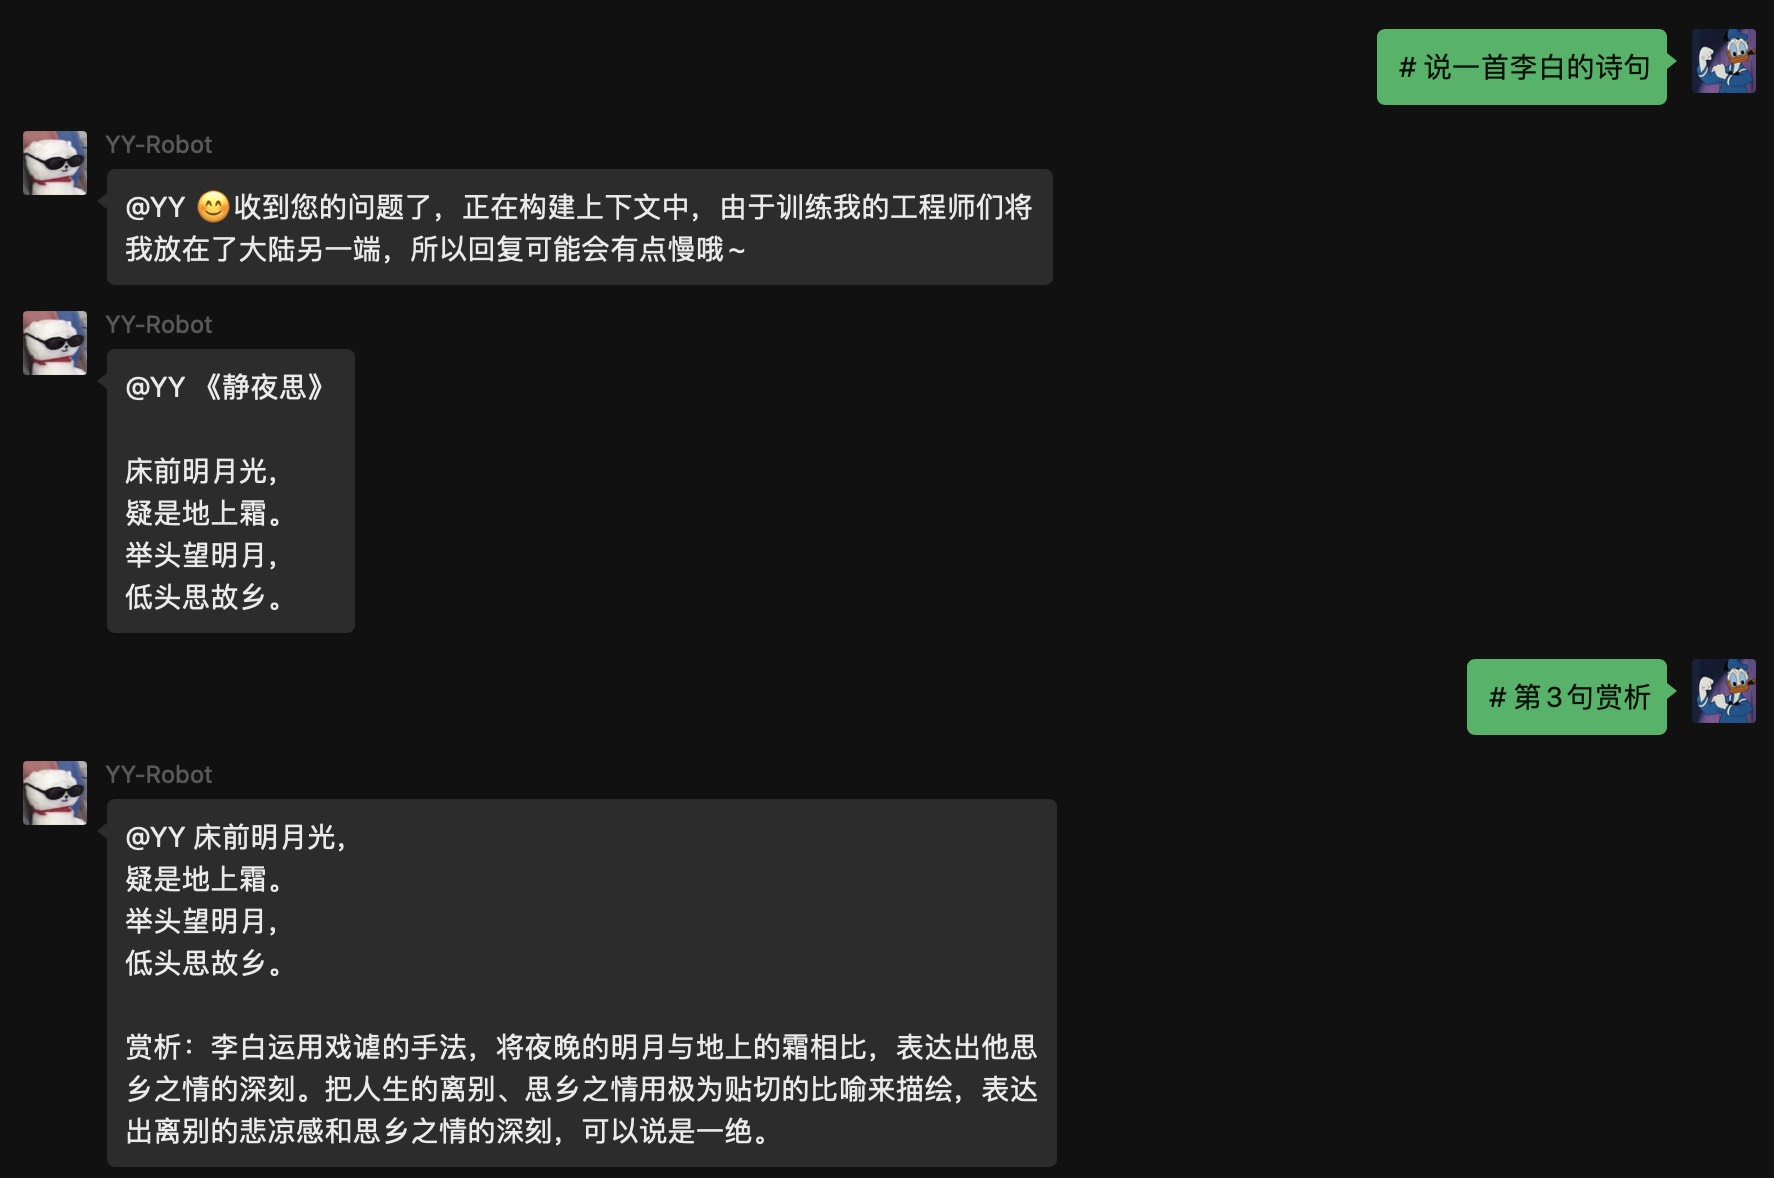
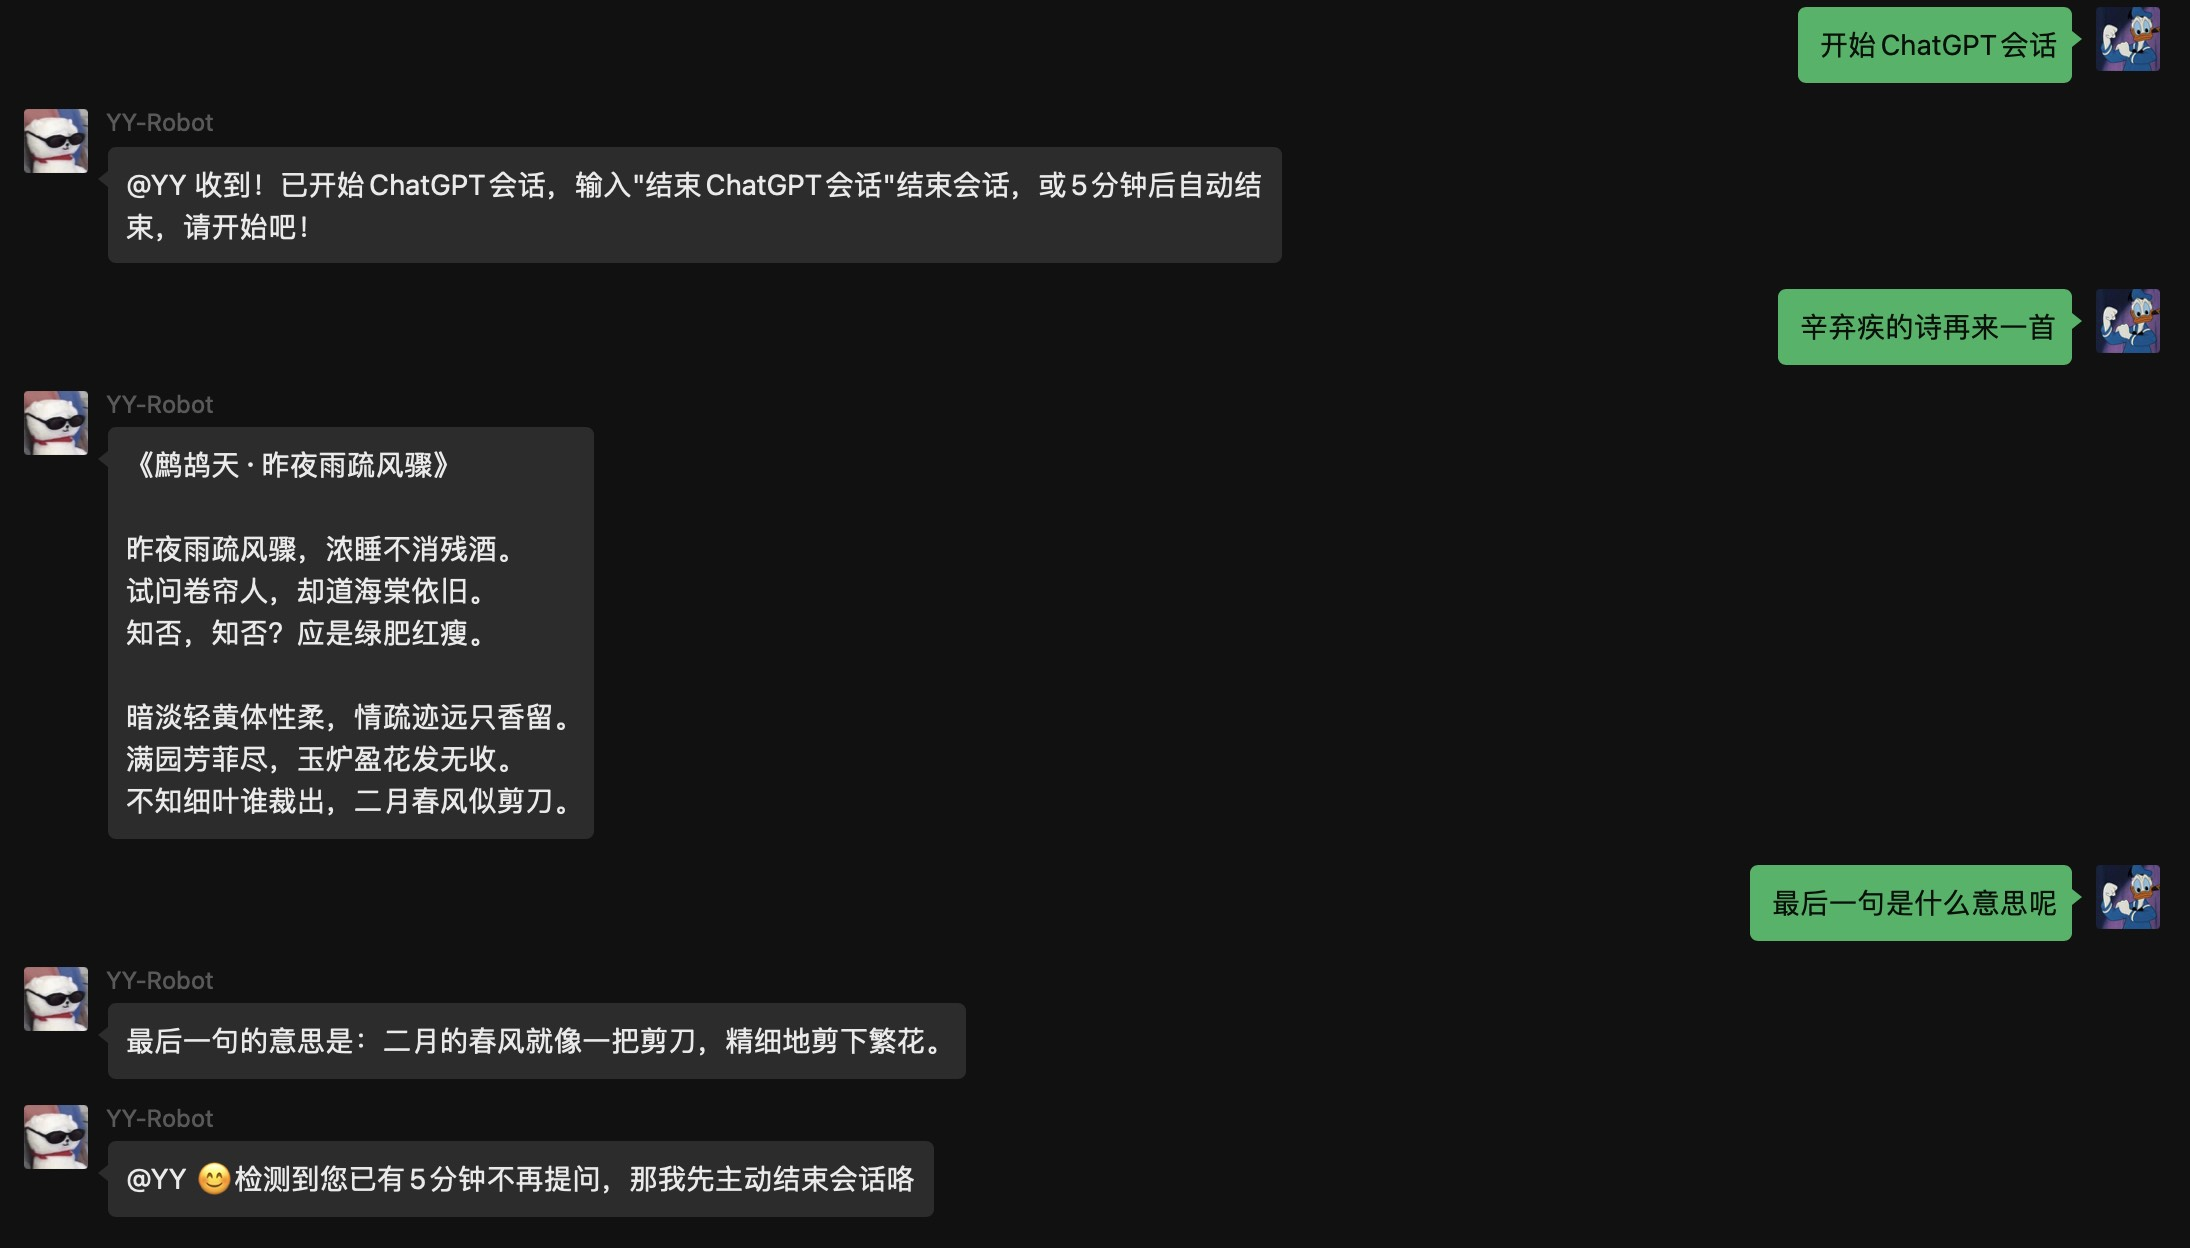
fix: 已支持连续会话 https://github.com/yqchilde/wxbot/issues/5

diff --git a/plugins/chatgpt/main.go b/plugins/chatgpt/main.go
@@ -22,15 +22,10 @@ var (
 	chatCTXMap sync.Map // 群号/私聊:消息上下文
 )
 
-type chatCTX struct {
-	prompt  string
-	created time.Time
-}
-
 func init() {
 	engine := control.Register("chatgpt", &control.Options[*robot.Ctx]{
 		Alias:      "ChatGPT",
-		Help:       "输入 {# 问题} => 获取ChatGPT回复",
+		Help:       "输入 {开始ChatGPT会话} => 进行ChatGPT连续会话",
 		DataFolder: "chatgpt",
 	})
 
@@ -42,50 +37,54 @@ func init() {
 	}
 
 	gpt3Client = gpt3.NewClient(chatGPT.ApiKey, gpt3.WithTimeout(time.Minute))
-	engine.OnPrefix("#").SetBlock(true).Handle(func(ctx *robot.Ctx) {
-		question, answer := ctx.State["args"].(string)+"\n", ""
-		if question == "" {
-			return
-		}
+
+	engine.OnFullMatch("开始ChatGPT会话").SetBlock(true).Handle(func(ctx *robot.Ctx) {
 		if chatGPT.ApiKey == "" {
 			ctx.ReplyTextAndAt("请先私聊机器人配置apiKey\n指令：set chatgpt apiKey __\napiKey获取请到https://beta.openai.com获取")
 			return
 		}
-		chatClear := []string{"清除上下文", "换个话题", "换个问题"}
-		for i := range chatClear {
-			if strings.Contains(question, chatClear[i]) {
-				chatCTXMap.Delete(ctx.Event.FromUniqueID)
-				ctx.ReplyText("😎我已结束聊天的上下文语境，您可以重新发起提问")
+
+		recv, cancel := ctx.EventChannel().Repeat()
+		defer cancel()
+		ctx.ReplyTextAndAt("收到！已开始ChatGPT会话，输入\"结束ChatGPT会话\"结束会话，或5分钟后自动结束，请开始吧！")
+		for {
+			select {
+			case <-time.After(time.Minute * 5):
+				ctx.ReplyTextAndAt("😊检测到您已有5分钟不再提问，那我先主动结束会话咯")
 				return
+			case c := <-recv:
+				msg := c.Event.Message.Msg
+				if msg == "结束ChatGPT会话" {
+					chatCTXMap.LoadAndDelete(ctx.Event.FromUniqueID)
+					ctx.ReplyText("已结束聊天的上下文语境，您可以重新发起提问")
+					return
+				}
+				question, answer := msg+"\n", ""
+				if question == "" {
+					continue
+				}
+				if c, ok := chatCTXMap.Load(ctx.Event.FromUniqueID); ok {
+					question = c.(string) + question
+				}
+				time.Sleep(3 * time.Second)
+				answer, err := askChatGPT(question)
+				if err != nil {
+					ctx.ReplyTextAndAt("ChatGPT出错了, err: " + err.Error())
+					return
+				}
+				chatCTXMap.Store(ctx.Event.FromUniqueID, question+"\n"+answer)
+				if r, need := filterReply(answer); need {
+					answer, err := askChatGPT(question + "\n" + answer + r)
+					if err != nil {
+						ctx.ReplyTextAndAt("ChatGPT出错了, err: " + err.Error())
+						return
+					}
+					chatCTXMap.Store(ctx.Event.FromUniqueID, question+"\n"+answer)
+					ctx.ReplyText(answer)
+				} else {
+					ctx.ReplyText(r)
+				}
 			}
-		}
-		if c, ok := chatCTXMap.Load(ctx.Event.FromUniqueID); ok {
-			if time.Now().Sub(c.(chatCTX).created) > time.Minute*5 {
-				chatCTXMap.Delete(ctx.Event.FromUniqueID)
-				ctx.ReplyTextAndAt("😊收到您的问题了，由于距离上一次提问已超过5分钟，我在重新构建上下文，马上就好~")
-			} else {
-				question = c.(chatCTX).prompt + question
-			}
-		} else {
-			ctx.ReplyTextAndAt("😊收到您的问题了，正在构建上下文中，由于训练我的工程师们将我放在了大陆另一端，所以回复可能会有点慢哦~")
-		}
-		time.Sleep(3 * time.Second)
-		answer, err := askChatGPT(question)
-		if err != nil {
-			ctx.ReplyTextAndAt("ChatGPT出错了, err: " + err.Error())
-			return
-		}
-		chatCTXMap.Store(ctx.Event.FromUniqueID, chatCTX{prompt: question + "\n" + answer, created: time.Now()})
-		if r, need := filterReply(answer); need {
-			answer, err := askChatGPT(question + "\n" + answer + r)
-			if err != nil {
-				ctx.ReplyTextAndAt("ChatGPT出错了, err: " + err.Error())
-				return
-			}
-			chatCTXMap.Store(ctx.Event.FromUniqueID, chatCTX{prompt: question + "\n" + answer, created: time.Now()})
-			ctx.ReplyTextAndAt(answer)
-		} else {
-			ctx.ReplyTextAndAt(r)
 		}
 	})
 

diff --git a/engine/robot/channel.go b/engine/robot/channel.go
@@ -1,23 +1,25 @@
 package robot
 
-// FutureEvent 交互的核心，用于异步获取指定事件
-type FutureEvent struct {
+// EventChannel 用于异步获取指定事件
+type EventChannel struct {
 	Type     string
 	Priority int
 	Rule     []Rule
 	Block    bool
 }
 
-func NewFutureEvent(Priority int, Block bool, rule ...Rule) *FutureEvent {
-	return &FutureEvent{
+// NewEventChannel 创建一个新的 EventChannel用于异步获取指定事件
+func NewEventChannel(Priority int, Block bool, rule ...Rule) *EventChannel {
+	return &EventChannel{
 		Priority: Priority,
 		Rule:     rule,
 		Block:    Block,
 	}
 }
 
-func (m *Matcher) FutureEvent(rule ...Rule) *FutureEvent {
-	return &FutureEvent{
+// EventChannel 用当前上下文创建一个EventChannel，会阻塞其他事件
+func (m *Matcher) EventChannel(rule ...Rule) *EventChannel {
+	return &EventChannel{
 		Priority: m.Priority,
 		Block:    m.Block,
 		Rule:     rule,
@@ -26,7 +28,7 @@ func (m *Matcher) FutureEvent(rule ...Rule) *FutureEvent {
 
 // Next 返回一个 chan 用于接收下一个指定事件
 // 该 chan 必须接收，如需手动取消监听，请使用 Repeat 方法
-func (n *FutureEvent) Next() <-chan *Ctx {
+func (n *EventChannel) Next() <-chan *Ctx {
 	ch := make(chan *Ctx, 1)
 	StoreTempMatcher(&Matcher{
 		Block:    n.Block,
@@ -43,7 +45,7 @@ func (n *FutureEvent) Next() <-chan *Ctx {
 
 // Repeat 返回一个 chan 用于接收无穷个指定事件，和一个取消监听的函数
 // 如果没有取消监听，将不断监听指定事件
-func (n *FutureEvent) Repeat() (recv <-chan *Ctx, cancel func()) {
+func (n *EventChannel) Repeat() (recv <-chan *Ctx, cancel func()) {
 	ch, done := make(chan *Ctx, 1), make(chan struct{})
 	go func() {
 		defer close(ch)
@@ -71,19 +73,4 @@ func (n *FutureEvent) Repeat() (recv <-chan *Ctx, cancel func()) {
 	return ch, func() {
 		close(done)
 	}
-}
-
-// Take 基于 Repeat 封装，返回一个 chan 接收指定数量的事件
-// 该 chan 对象必须接收，否则将有 goroutine 泄漏，如需手动取消请使用 Repeat
-func (n *FutureEvent) Take(num int) <-chan *Ctx {
-	recv, cancel := n.Repeat()
-	ch := make(chan *Ctx, num)
-	go func() {
-		defer close(ch)
-		for i := 0; i < num; i++ {
-			ch <- <-recv
-		}
-		cancel()
-	}()
-	return ch
 }

diff --git a/plugins/covid19/main.go b/plugins/covid19/main.go
@@ -16,7 +16,7 @@ func init() {
 		Alias: "疫情查询",
 		Help:  "输入 {XX疫情} => 获取疫情数据，Ps:济南疫情",
 	})
-	engine.OnRegex(`([^\x00-\xff]{0,6})疫情(.*)`).SetBlock(true).Handle(func(ctx *robot.Ctx) {
+	engine.OnRegex(`([^\x00-\xff]{0,6})疫情`).SetBlock(true).Handle(func(ctx *robot.Ctx) {
 		city := ctx.State["regex_matched"].([]string)[1]
 		var str string
 		var ret string

diff --git a/engine/robot/rules.go b/engine/robot/rules.go
@@ -165,7 +165,7 @@ func MustMemePicture(ctx *Ctx) bool {
 		timeout = 30 * time.Second
 	}
 	ctx.ReplyTextAndAt(fmt.Sprintf("请在%d秒内发送表情包图片", int(timeout.Seconds())))
-	next := NewFutureEvent(999, true, ctx.CheckSession(), HasMemePicture).Next()
+	next := NewEventChannel(999, true, ctx.CheckSession(), HasMemePicture).Next()
 	select {
 	case <-time.After(timeout):
 		return false

diff --git a/engine/robot/context.go b/engine/robot/context.go
@@ -37,3 +37,8 @@ func (ctx *Ctx) CheckSession() Rule {
 			ctx.Event.FromGroup == ctx2.Event.FromGroup
 	}
 }
+
+// EventChannel 用当前事件创建一个新的事件通道
+func (ctx *Ctx) EventChannel(rule ...Rule) *EventChannel {
+	return ctx.matcher.EventChannel(rule...)
+}
